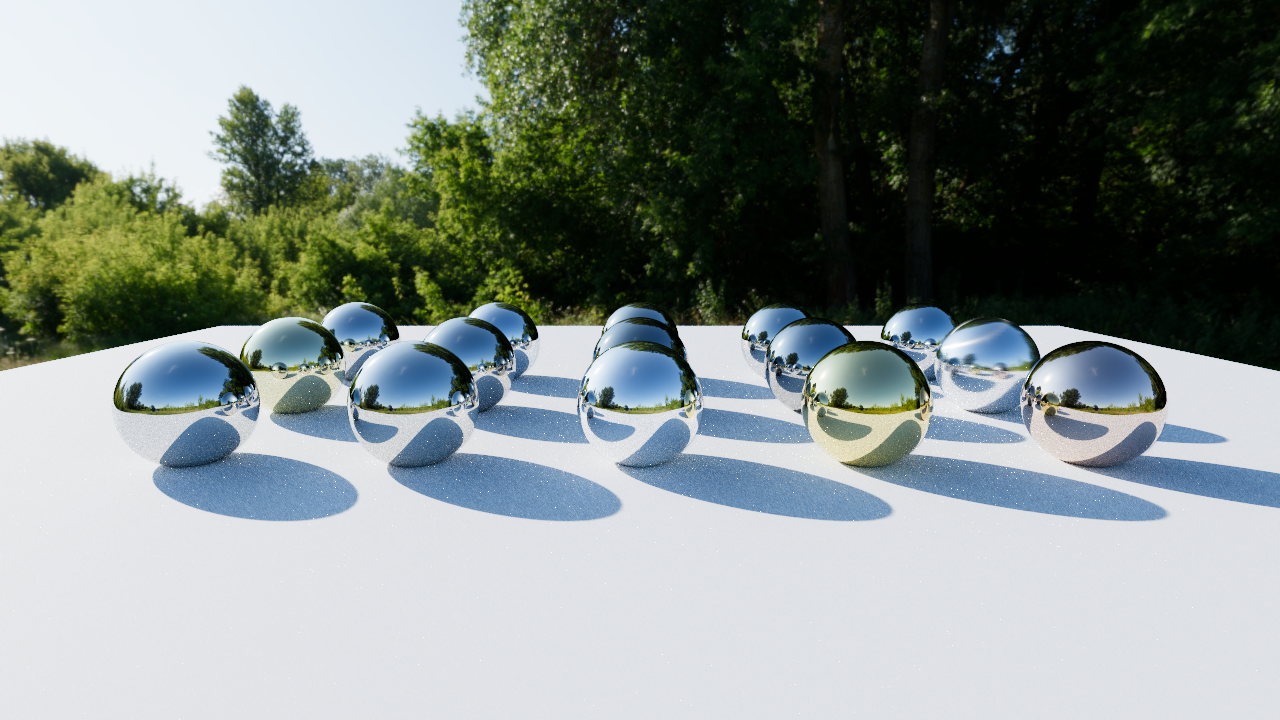
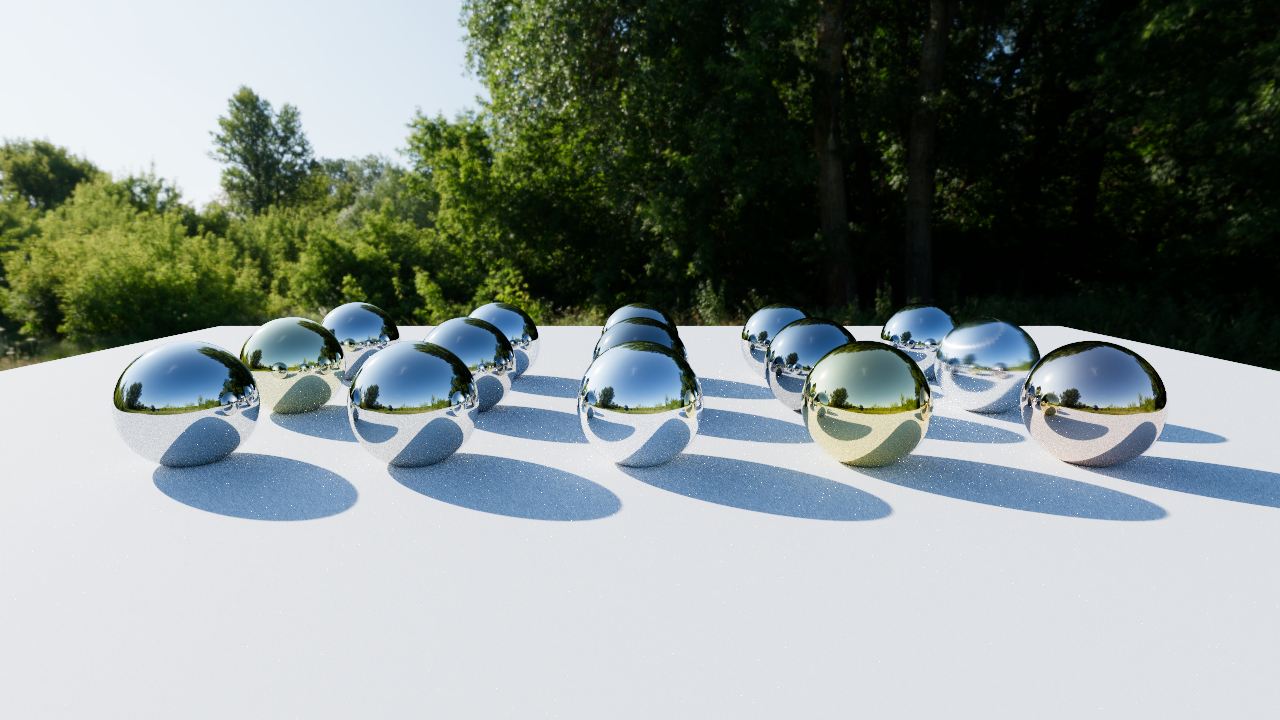
docs(screenshots): openpbr_specular and openpbr_metals with the texture-coordinate tangent
Harmonia's shared surface shader builds the frame of an anisotropy from the
tangent of the texture coordinates now (Harmonia b8f3c17), where it built it
from the normal alone. The two gallery scenes with anisotropic materials are
rendered again with the settings of tools/generate_gallery.ps1, and PLAN.md
says so among the unreleased changes.
Against the previous files, 6.2 percent of the pixels of openpbr_specular and 4.4
percent of openpbr_metals changed by more than 8 of 255; the lower half of each
image, where the spheres and the floor are.

diff --git a/PLAN.md b/PLAN.md
@@ -250,6 +250,10 @@ The release history, newest first.
   Regression test `tests/module/test_gi_stale_path_state.cpp` drives the real
   GI pass with a block of pixels that is floor in one frame and background in
   the next: without the fix all 6144 pixels of the block change, with it none.
+- The anisotropy of a material without a tangent map follows the texture
+  coordinates (Harmonia's shared `surface.slang`); its frame used to come from
+  the normal alone. The gallery screenshots of `openpbr_specular` and
+  `openpbr_metals` are rendered with the new frame.
 
 ### v1.0.0 (2026-11-26)
 
